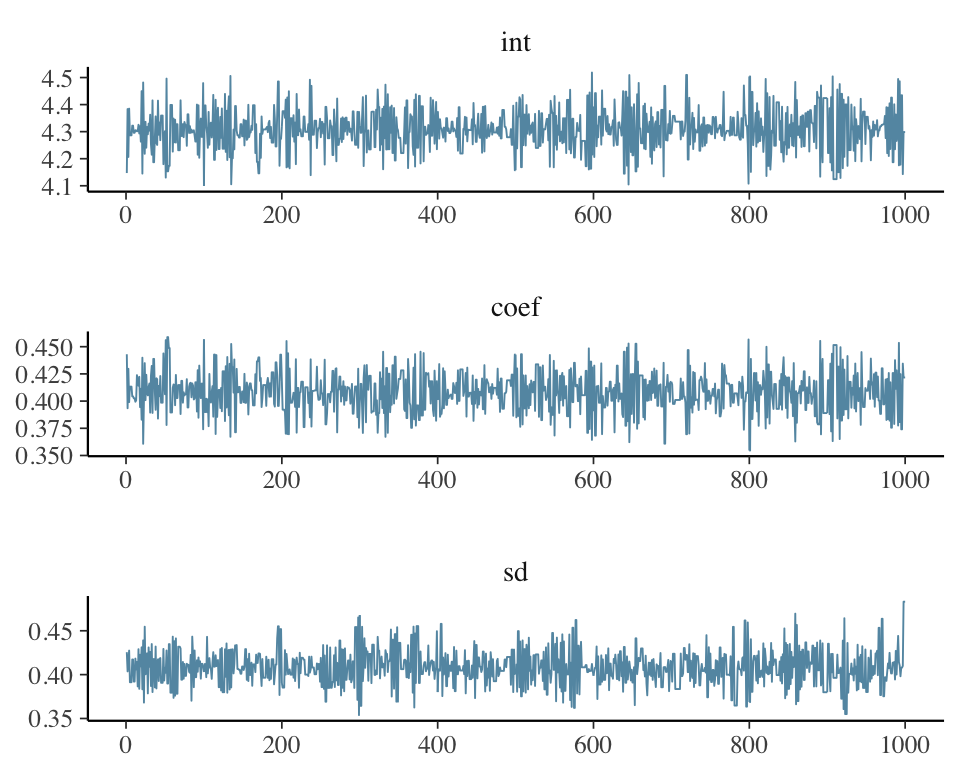
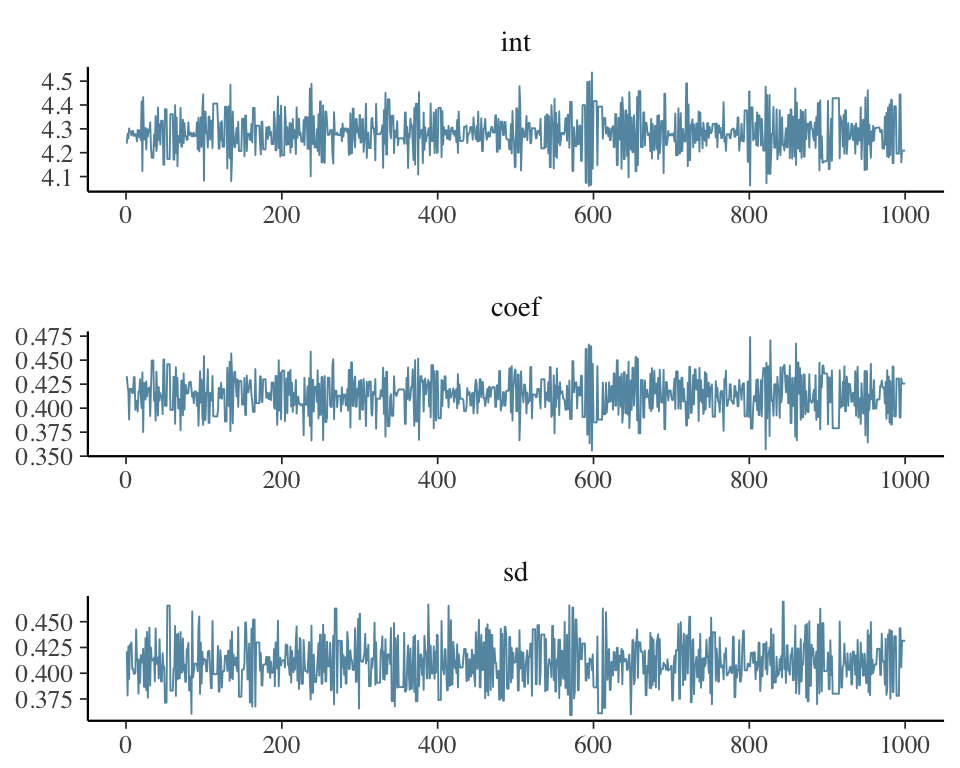
rebuild to update full graph figure

diff --git a/docs/getting_started.html b/docs/getting_started.html
@@ -616,14 +616,14 @@ atanh(z_greta)</code></pre>
 <p>So far, we have created greta arrays representing the variables in our model (with prior distributions) and created other greta arrays from them and some fixed, <em>independent</em> data. To perform statistical inference on this model, we also need to link it to some observed <em>dependent</em> data. By comparing the sepal lengths predicted under different parameter values with the observed sepal lengths, we can estimate the most plausible values of those parameters. We do that by defining a likelihood for the observed sepal length data <code>y</code>.</p>
 <p>By defining a likelihood over observed data, we are stating that these observed data are actually a random sample from some probability distribution, and we’re trying to work out the parameters of that distribution. In greta we do that with the <code>distribution()</code> assignment function:</p>
 <pre class="r"><code>distribution(y) = normal(mean, sd)</code></pre>
-<p>With the syntax <code>distribution(&lt;lhs&gt;) &lt;- &lt;rhs&gt;</code>, we are stating that the data greta array on the left <code>&lt;lhs&gt;</code> has the same distribution as the greta array on the right <code>&lt;rhs&gt;</code>. In this case, we’re temporarily creating a random variable with a normal distribution (with parameters determined by the greta arrays <code>mean</code> and <code>sd</code>), but then stating that some of the values of that distribution have been observed (<code>y</code>). In this case both <code>&lt;lhs&gt;</code> (<code>y</code>) and <code>&lt;rhs&gt;</code> are column vectors with the same dimensions, so each element in <code>y</code> has a normal distribution with the corresponding parameters.</p>
+<p>With the syntax <code>distribution(&lt;lhs&gt;) = &lt;rhs&gt;</code>, we are stating that the data greta array on the left <code>&lt;lhs&gt;</code> has the same distribution as the greta array on the right <code>&lt;rhs&gt;</code>. In this case, we’re temporarily creating a random variable with a normal distribution (with parameters determined by the greta arrays <code>mean</code> and <code>sd</code>), but then stating that values of that distribution have been observed (<code>y</code>). In this case both <code>&lt;lhs&gt;</code> (<code>y</code>) and <code>&lt;rhs&gt;</code> are column vectors with the same dimensions, so each element in <code>y</code> has a normal distribution with the corresponding parameters.</p>
 <hr>
 </div>
 <div id="defining-the-model" class="section level3">
 <h3>Defining the model</h3>
 <p>Now all of the greta arrays making up the model have been created, we need to combine them and set up the model so that we can sample from it, using <code>model()</code>:</p>
 <pre class="r"><code>m &lt;- model(int, coef, sd)</code></pre>
-<p><code>model()</code> returns a ‘greta model’ object, which combines all of the greta arrays that make up the model. We can pass greta arrays as arguments to <code>model()</code> to flag them as the parameters we’re interested in. When sampling from the model with <code>mcmc()</code> those will be the greta arrays for which samples will be returned. Alternatively, we can run <code>model()</code> without passing any greta arrays, in which all of the greta arrays (except for data greta arrays) in the working environment will be set as the targets for sampling instead.</p>
+<p><code>model()</code> returns a ‘greta model’ object, which combines all of the greta arrays that make up the model. We can pass greta arrays as arguments to <code>model()</code> to flag them as the parameters we’re interested in. When sampling from the model with <code>mcmc()</code> those will be the greta arrays for which samples will be returned. Alternatively, we can run <code>model()</code> without passing any greta arrays, in which case all of the greta arrays (except for data greta arrays) in the working environment will be set as the targets for sampling instead.</p>
 <hr>
 </div>
 <div id="plotting" class="section level3">
@@ -667,16 +667,16 @@ Sample size per chain = 1000
    plus standard error of the mean:
 
        Mean      SD  Naive SE Time-series SE
-int  4.3088 0.07731 0.0024448      0.0019365
-coef 0.4084 0.01886 0.0005965      0.0005538
-sd   0.4084 0.02100 0.0006642      0.0005674
+int  4.2839 0.08063 0.0025497      0.0022142
+coef 0.4139 0.01952 0.0006172      0.0006316
+sd   0.4097 0.02221 0.0007025      0.0007025
 
 2. Quantiles for each variable:
 
        2.5%    25%    50%    75%  97.5%
-int  4.1531 4.2596 4.3058 4.3580 4.4692
-coef 0.3708 0.3957 0.4085 0.4206 0.4454
-sd   0.3692 0.3942 0.4078 0.4224 0.4544</code></pre>
+int  4.1299 4.2257 4.2793 4.3409 4.4422
+coef 0.3782 0.3997 0.4144 0.4287 0.4490
+sd   0.3717 0.3922 0.4085 0.4255 0.4521</code></pre>
 <p>The bayesplot package makes some nice plots of the MCMC chain and the parameter estimates</p>
 <pre class="r"><code>library (bayesplot)
 mcmc_trace(draws)

diff --git a/inst/doc/getting_started.html b/inst/doc/getting_started.html
@@ -501,14 +501,14 @@ atanh(z_greta)</code></pre>
 <p>So far, we have created greta arrays representing the variables in our model (with prior distributions) and created other greta arrays from them and some fixed, <em>independent</em> data. To perform statistical inference on this model, we also need to link it to some observed <em>dependent</em> data. By comparing the sepal lengths predicted under different parameter values with the observed sepal lengths, we can estimate the most plausible values of those parameters. We do that by defining a likelihood for the observed sepal length data <code>y</code>.</p>
 <p>By defining a likelihood over observed data, we are stating that these observed data are actually a random sample from some probability distribution, and we’re trying to work out the parameters of that distribution. In greta we do that with the <code>distribution()</code> assignment function:</p>
 <pre class="r"><code>distribution(y) = normal(mean, sd)</code></pre>
-<p>With the syntax <code>distribution(&lt;lhs&gt;) &lt;- &lt;rhs&gt;</code>, we are stating that the data greta array on the left <code>&lt;lhs&gt;</code> has the same distribution as the greta array on the right <code>&lt;rhs&gt;</code>. In this case, we’re temporarily creating a random variable with a normal distribution (with parameters determined by the greta arrays <code>mean</code> and <code>sd</code>), but then stating that some of the values of that distribution have been observed (<code>y</code>). In this case both <code>&lt;lhs&gt;</code> (<code>y</code>) and <code>&lt;rhs&gt;</code> are column vectors with the same dimensions, so each element in <code>y</code> has a normal distribution with the corresponding parameters.</p>
+<p>With the syntax <code>distribution(&lt;lhs&gt;) = &lt;rhs&gt;</code>, we are stating that the data greta array on the left <code>&lt;lhs&gt;</code> has the same distribution as the greta array on the right <code>&lt;rhs&gt;</code>. In this case, we’re temporarily creating a random variable with a normal distribution (with parameters determined by the greta arrays <code>mean</code> and <code>sd</code>), but then stating that values of that distribution have been observed (<code>y</code>). In this case both <code>&lt;lhs&gt;</code> (<code>y</code>) and <code>&lt;rhs&gt;</code> are column vectors with the same dimensions, so each element in <code>y</code> has a normal distribution with the corresponding parameters.</p>
 <hr>
 </div>
 <div id="defining-the-model" class="section level3">
 <h3>Defining the model</h3>
 <p>Now all of the greta arrays making up the model have been created, we need to combine them and set up the model so that we can sample from it, using <code>model()</code>:</p>
 <pre class="r"><code>m &lt;- model(int, coef, sd)</code></pre>
-<p><code>model()</code> returns a ‘greta model’ object, which combines all of the greta arrays that make up the model. We can pass greta arrays as arguments to <code>model()</code> to flag them as the parameters we’re interested in. When sampling from the model with <code>mcmc()</code> those will be the greta arrays for which samples will be returned. Alternatively, we can run <code>model()</code> without passing any greta arrays, in which all of the greta arrays (except for data greta arrays) in the working environment will be set as the targets for sampling instead.</p>
+<p><code>model()</code> returns a ‘greta model’ object, which combines all of the greta arrays that make up the model. We can pass greta arrays as arguments to <code>model()</code> to flag them as the parameters we’re interested in. When sampling from the model with <code>mcmc()</code> those will be the greta arrays for which samples will be returned. Alternatively, we can run <code>model()</code> without passing any greta arrays, in which case all of the greta arrays (except for data greta arrays) in the working environment will be set as the targets for sampling instead.</p>
 <hr>
 </div>
 <div id="plotting" class="section level3">

diff --git a/inst/doc/how_does_this_work.html b/inst/doc/how_does_this_work.html
@@ -281,7 +281,7 @@ class(x$node$value())</code></pre>
              tf$constant(self$value(), dtype = tf_float()),
              envir = dag$tf_environment)
     }
-&lt;environment: 0x12c1a4468&gt;</code></pre>
+&lt;environment: 0x127a66178&gt;</code></pre>
 <p>Because R6 objects are pass-by-reference (rather than pass-by-copy), the dag accumulates all of the defined tensors, rather than being re-written each time. Similarly, because nodes are R6 objects and know which are their children, they can make sure those children are defined as tensors before they are. The <code>define_tf()</code> member function ensures that that happens, enabling operation nodes to use the tensors for their children when defining their own tensor.</p>
 <pre class="r"><code>z$node$tf</code></pre>
 <pre><code>function (dag) {
@@ -307,7 +307,7 @@ class(x$node$value())</code></pre>
       assign(dag$tf_name(self), node, envir = dag$tf_environment)
 
     }
-&lt;environment: 0x12887a778&gt;</code></pre>
+&lt;environment: 0x12b8c7440&gt;</code></pre>
 </div>
 </div>
 <div id="variables-and-free-states" class="section level2">
@@ -347,7 +347,7 @@ class(a$node)</code></pre>
       y
 
     }
-&lt;environment: 0x1234b68e8&gt;</code></pre>
+&lt;environment: 0x108b4cf18&gt;</code></pre>
 </div>
 <div id="distributions" class="section level2">
 <h2>distributions</h2>
@@ -380,7 +380,7 @@ class(b$node$distribution$target)</code></pre>
 
       ld
     }
-&lt;environment: 0x12bcf1388&gt;</code></pre>
+&lt;environment: 0x12f20ead8&gt;</code></pre>
 <p>If the distribution was truncated, the log density is normalised using the cumulative distribution function.</p>
 </div>
 <div id="joint-density" class="section level2">
@@ -401,7 +401,7 @@ model$dag$send_parameters</code></pre>
            parameter_dict &lt;- do.call(dict, parameters))
 
     }
-&lt;environment: 0x124375c70&gt;</code></pre>
+&lt;environment: 0x10267e660&gt;</code></pre>
 <pre class="r"><code>model$dag$log_density</code></pre>
 <pre><code>function(adjusted = TRUE) {
 
@@ -418,7 +418,7 @@ model$dag$send_parameters</code></pre>
       }
 
     }
-&lt;environment: 0x124375c70&gt;</code></pre>
+&lt;environment: 0x10267e660&gt;</code></pre>
 <pre class="r"><code>model$dag$gradients</code></pre>
 <pre><code>function (adjusted = TRUE) {
 
@@ -435,7 +435,7 @@ model$dag$send_parameters</code></pre>
       }
 
     }
-&lt;environment: 0x124375c70&gt;</code></pre>
+&lt;environment: 0x10267e660&gt;</code></pre>
 <p>These methods are used by MCMC samplers to explore the model parameters.</p>
 </div>
 
